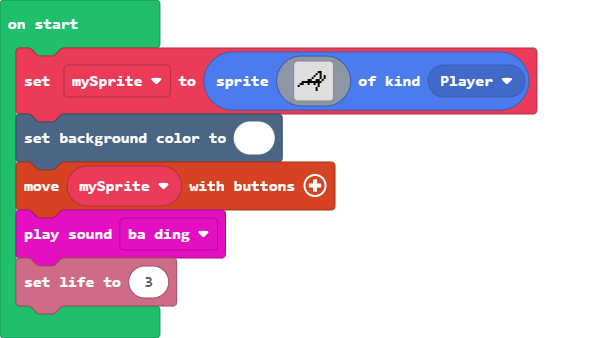
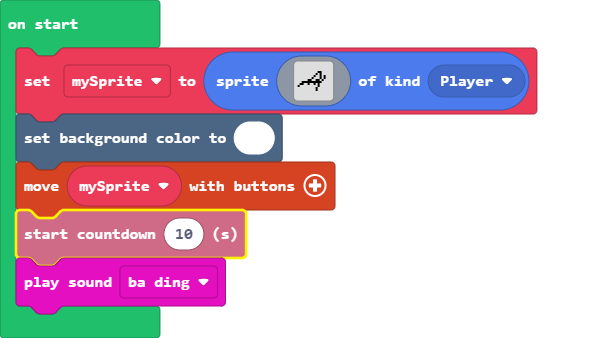
tet

Changed region(s): [[0.0, 0.5917, 0.4278, 0.9467]]

diff --git a/main.ts b/main.ts
@@ -18,5 +18,5 @@ let mySprite = sprites.create(img`
     `, SpriteKind.Player)
 scene.setBackgroundColor(1)
 controller.moveSprite(mySprite)
+info.startCountdown(10)
 music.baDing.play()
-info.setLife(3)
